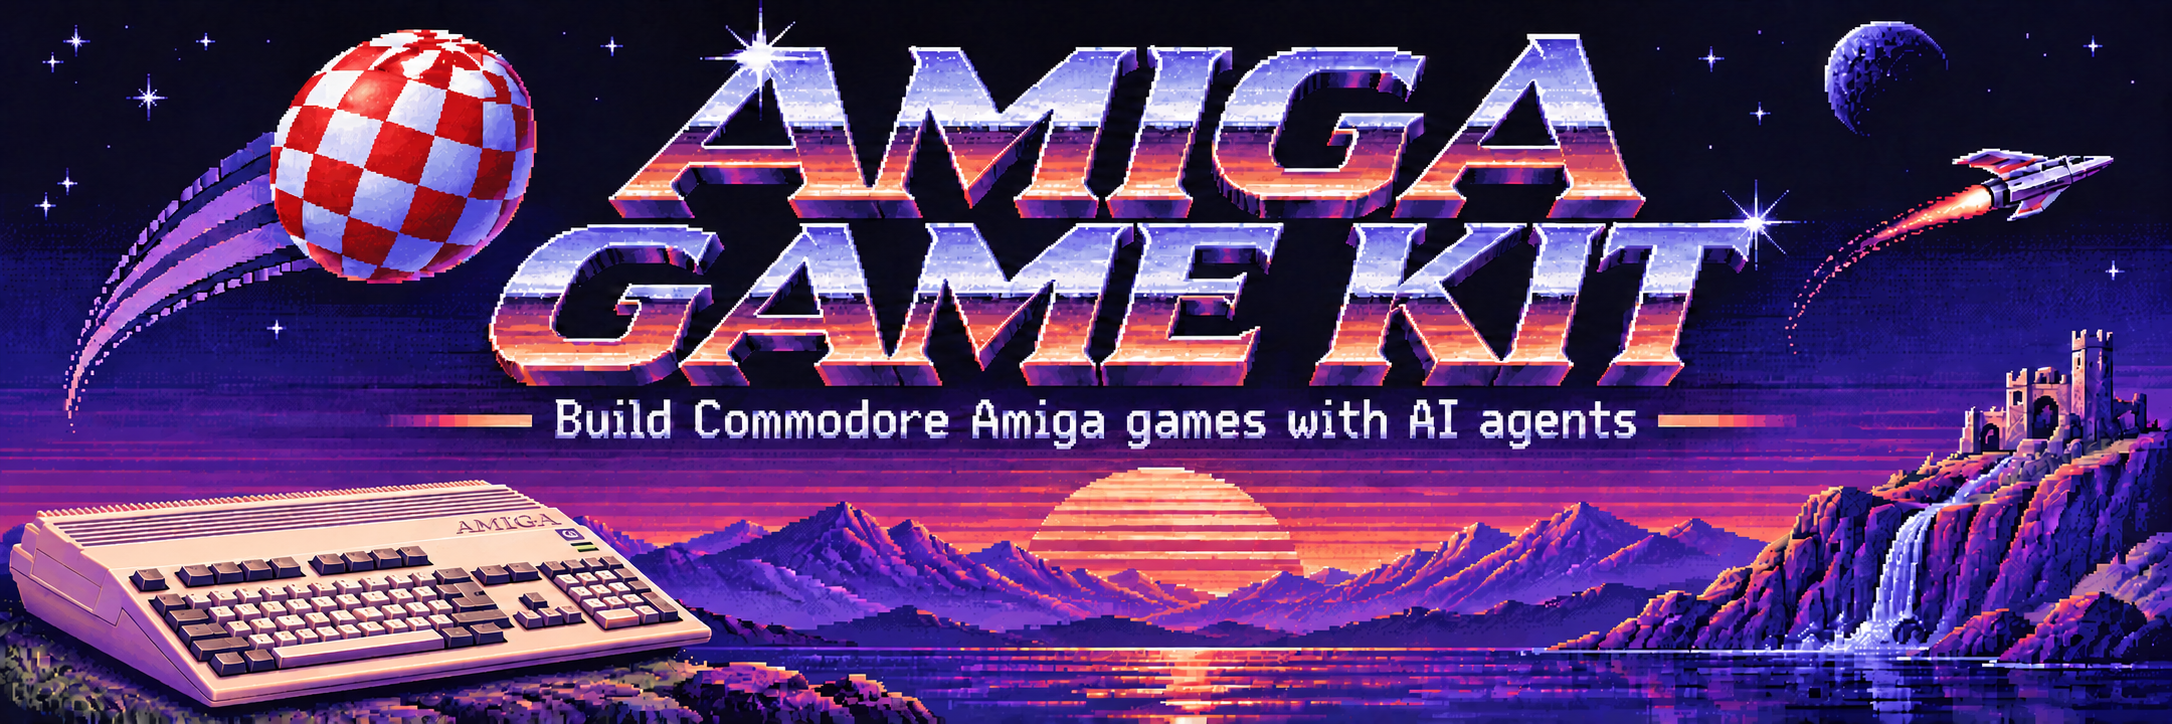
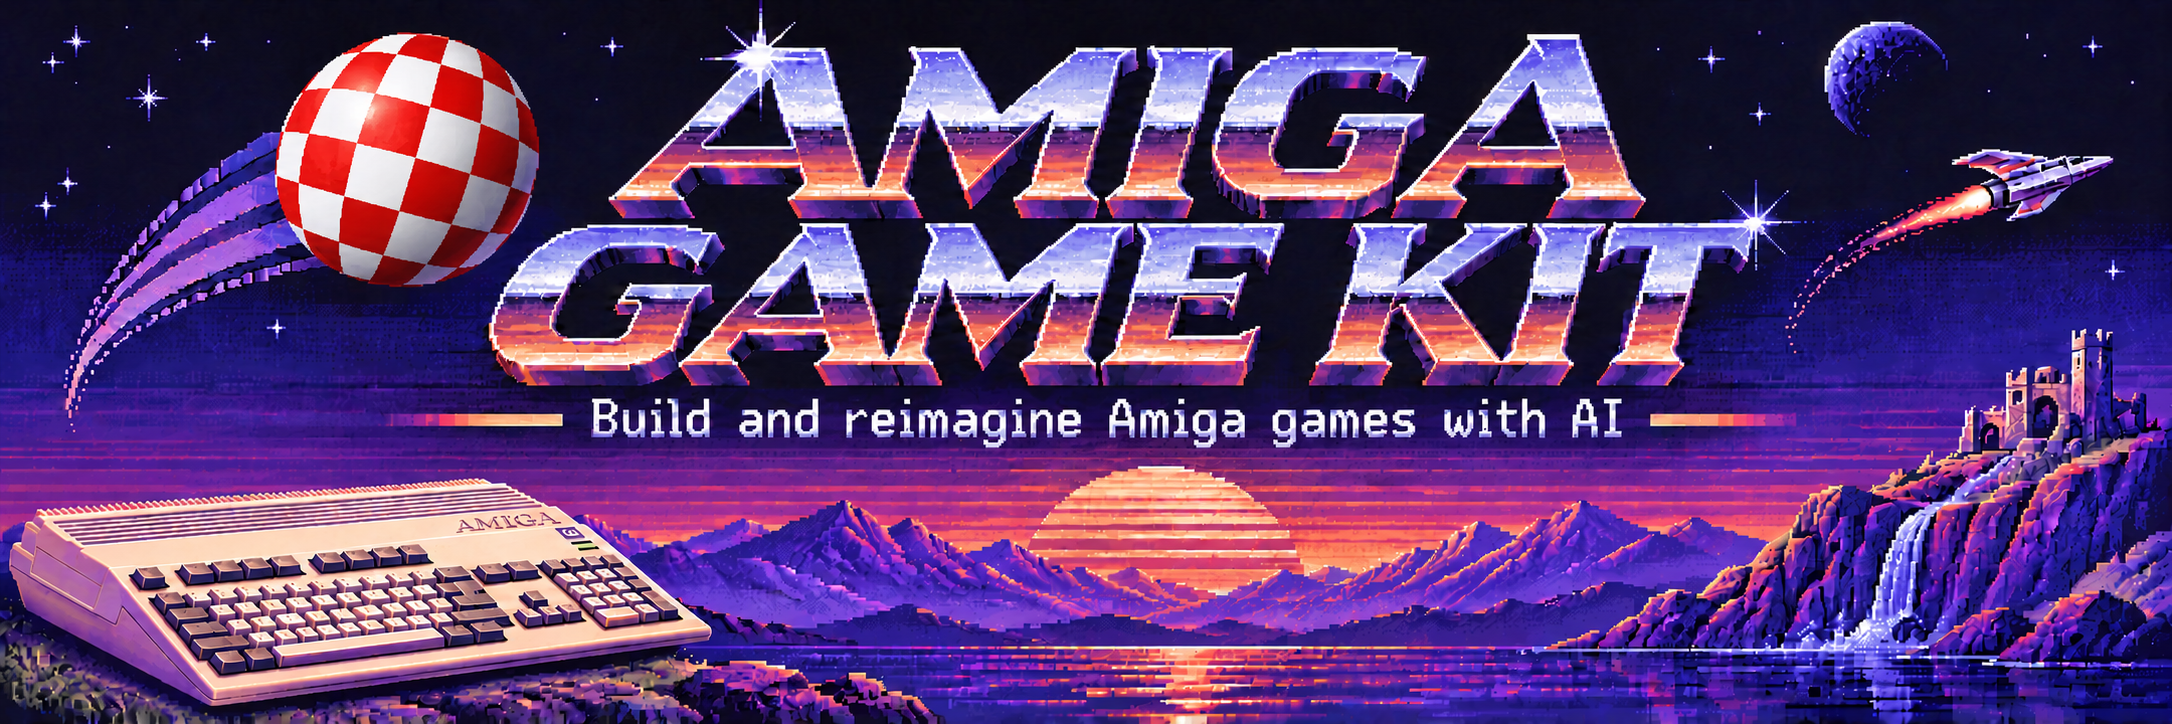
Center README header and refine Amiga branding

diff --git a/README.md b/README.md
@@ -1,16 +1,25 @@
-# Amiga Game Kit (AGK)
+<h1 align="center">Amiga Game Kit (AGK)</h1>
 
-![Amiga Game Kit: build Commodore Amiga games with AI agents](docs/img/amiga-game-kit-banner.png)
+<p align="center">
+  <img src="docs/img/amiga-game-kit-banner.png" alt="Amiga Game Kit: build and reimagine Amiga games with AI" width="100%">
+</p>
 
-[![AROS selftest](https://github.com/codebase/amiga-game-kit/actions/workflows/selftest.yml/badge.svg?branch=main)](https://github.com/codebase/amiga-game-kit/actions/workflows/selftest.yml)
-[![Latest release](https://img.shields.io/github/v/release/codebase/amiga-game-kit)](https://github.com/codebase/amiga-game-kit/releases/latest)
-[![MIT license](https://img.shields.io/badge/license-MIT-blue)](LICENSE)
-[![Python 3.11+](https://img.shields.io/badge/Python-3.11%2B-3776AB)](#quick-start)
-[![Amiga A500 and A1200 AGA](https://img.shields.io/badge/Amiga-A500%20%7C%20A1200%20AGA-orange)](docs/aga.md)
-[![MCP tools](https://img.shields.io/badge/MCP-tools-8A63D2)](#mcp-server)
-[![GitHub stars](https://img.shields.io/github/stars/codebase/amiga-game-kit?style=social)](https://github.com/codebase/amiga-game-kit/stargazers)
+<p align="center">
+  <a href="https://github.com/codebase/amiga-game-kit/actions/workflows/selftest.yml"><img src="https://github.com/codebase/amiga-game-kit/actions/workflows/selftest.yml/badge.svg?branch=main" alt="AROS selftest"></a>
+  <a href="https://github.com/codebase/amiga-game-kit/releases/latest"><img src="https://img.shields.io/github/v/release/codebase/amiga-game-kit" alt="Latest release"></a>
+  <a href="LICENSE"><img src="https://img.shields.io/badge/license-MIT-blue" alt="MIT license"></a>
+  <a href="#quick-start"><img src="https://img.shields.io/badge/Python-3.11%2B-3776AB" alt="Python 3.11+"></a>
+  <a href="docs/aga.md"><img src="https://img.shields.io/badge/Amiga-A500%20%7C%20A1200%20AGA-orange" alt="Amiga A500 and A1200 AGA"></a>
+  <a href="#mcp-server"><img src="https://img.shields.io/badge/MCP-tools-8A63D2" alt="MCP tools"></a>
+  <a href="https://github.com/codebase/amiga-game-kit/stargazers"><img src="https://img.shields.io/github/stars/codebase/amiga-game-kit?style=social" alt="GitHub stars"></a>
+</p>
 
-[Play the demos](docs/play-demos.md) · [Make your first game](docs/first-game.md) · [Roadmap](docs/roadmap.md)
+<p align="center">
+  <a href="docs/play-demos.md">Play the demos</a> ·
+  <a href="docs/first-game.md">Make your first game</a> ·
+  <a href="docs/recomp.md">Native recompilation</a> ·
+  <a href="docs/roadmap.md">Roadmap</a>
+</p>
 
 A kit for building Commodore Amiga games with AI coding agents (Claude Code,
 Codex, Cursor, ...). Agents are only as good as their feedback loop, so AGK
@@ -19,6 +28,11 @@ screenshots, frame-exact joystick input, serial debug output, memory and
 register dumps, and golden-image tests. It's built on proven Amiga tooling:
 [ACE](https://github.com/AmigaPorts/ACE), bebbo's GCC and
 [vAmiga](https://github.com/dirkwhoffmann/vAmiga).
+
+AGK also includes [experimental native recompilation](docs/recomp.md): translate
+68000 game code from your own disk images into C, run it on modern systems, and
+use that as a starting point for improvements. Compatibility is still limited;
+see the guide for what's working and what's next.
 
 ```
 $ agk test examples/hello
